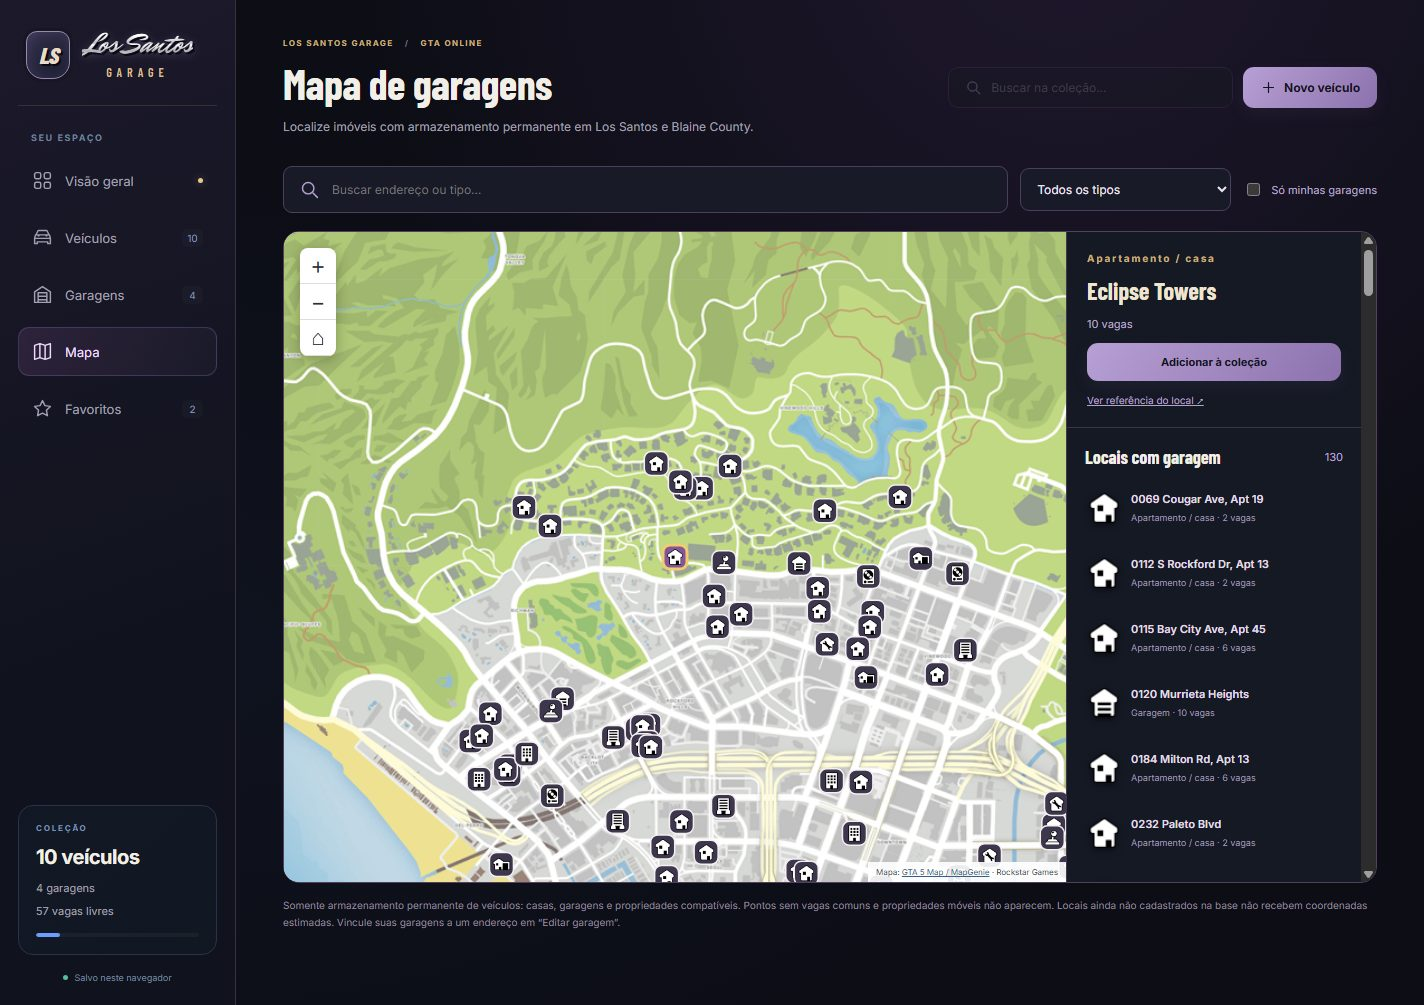
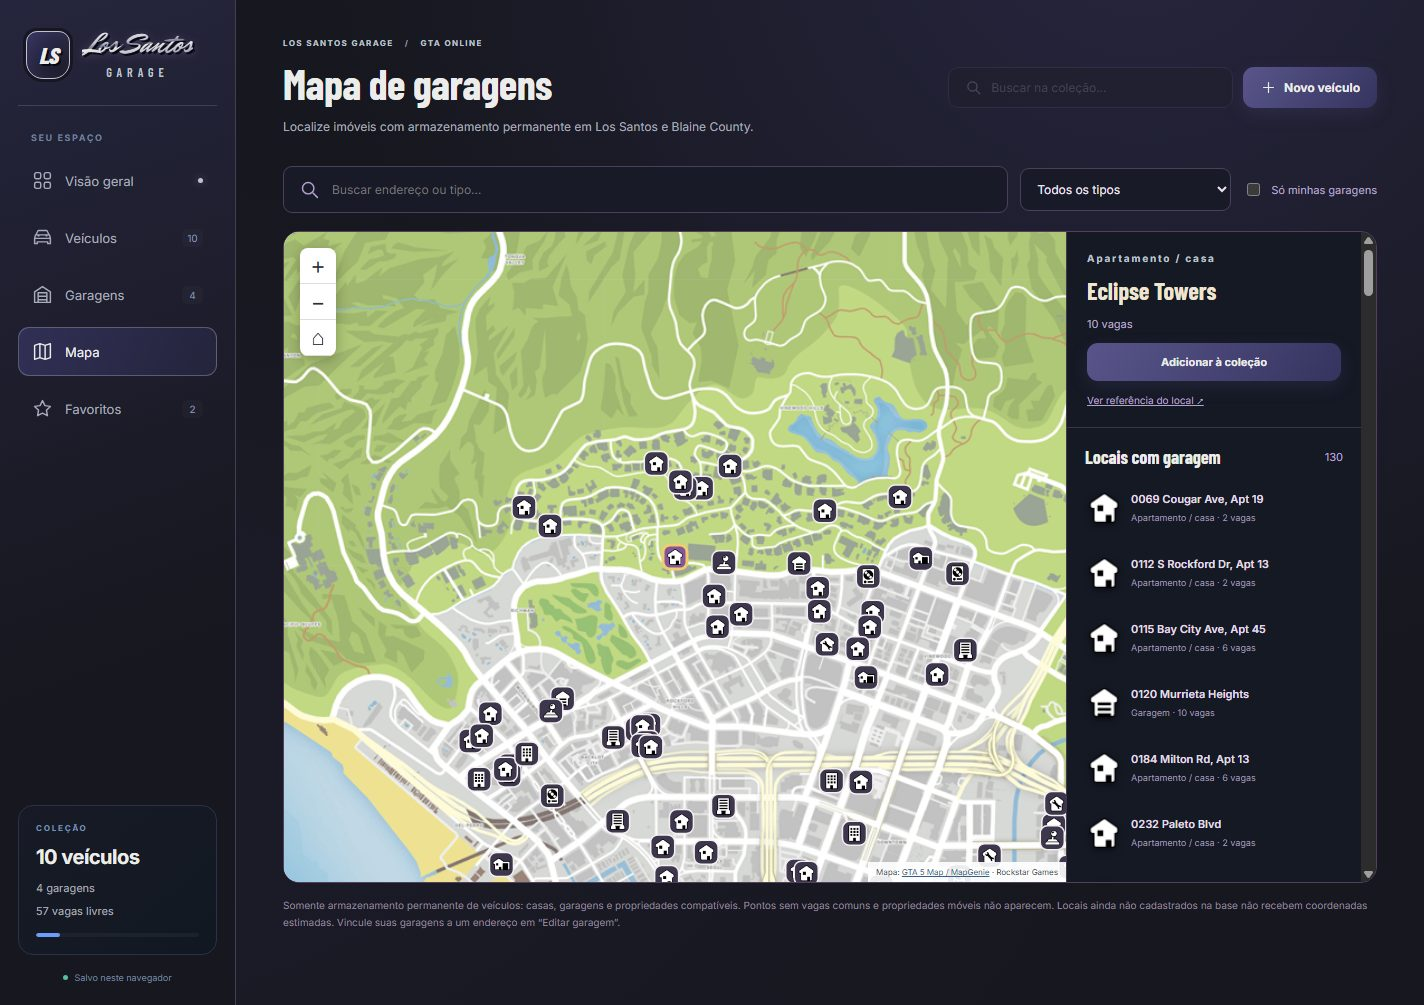
Aplica identidade indigo grafite e prata cromado

diff --git a/los-santos.css b/los-santos.css
@@ -1,66 +1,73 @@
-:root { --accent: #b494e2; --accent-2: #d6b46d; --bg: #0b0b13; --surface: #171621; --surface-2: #201d2d; --line: #343043; --muted: #a3a0b2; --text: #f2efe8; }
-body { background: radial-gradient(ellipse at 75% -10%, #36244977, transparent 48%), radial-gradient(ellipse at 10% 65%, #17243b44, transparent 55%), #0c0d15; }
+:root { --indigo: #35345f; --graphite: #17171f; --silver: #bfc3ce; --ice: #ecedeb; --violet: #59558b; --accent: #bfc3ce; --accent-2: #59558b; --bg: #17171f; --surface: #1e1e29; --surface-2: #29293a; --line: #414155; --muted: #a8acba; --text: #ecedeb; --chrome: linear-gradient(175deg, #ffffff 0%, #bfc3ce 38%, #747b91 49%, #ecedeb 52%, #a6adbf 78%, #dfe2e8 100%); }
+body { background: radial-gradient(ellipse at 80% -10%, #35345f80, transparent 50%), radial-gradient(ellipse at 0 75%, #35345f30, transparent 55%), var(--graphite); }
 h1, h2, h3 { font-family: "Barlow Condensed", Inter, sans-serif; }
-.sidebar { background: linear-gradient(160deg, #1c192b, #10131d 65%); border-right-color: #393044; }
-.brand { gap: 12px; align-items: center; padding-bottom: 26px; border-bottom: 1px solid #bb9a6330; margin-bottom: 26px; }
-.brand-mark { width: 44px; height: 48px; background: linear-gradient(140deg, #34304b, #171b2d); border: 1px solid #9b86b4; box-shadow: 0 0 0 3px #171723, inset 0 0 14px #ccb0ff22; color: #e6dcc7; font-family: "Barlow Condensed", sans-serif; font-size: 23px; font-style: italic; text-shadow: 2px 2px #090912; border-radius: 11px 11px 17px 17px; }
+.sidebar { background: linear-gradient(160deg, #25253d, #17171f 65%); border-right-color: #414155; }
+.brand { gap: 12px; align-items: center; padding-bottom: 26px; border-bottom: 1px solid #bfc3ce30; margin-bottom: 26px; }
+.brand-mark { width: 44px; height: 48px; background: linear-gradient(140deg, #35345f, #17171f); border: 1px solid #bfc3ce; box-shadow: 0 0 0 3px #171723, inset 0 0 14px #59558b33; color: #ecedeb; font-family: "Barlow Condensed", sans-serif; font-size: 23px; font-style: italic; text-shadow: 2px 2px #090912; border-radius: 11px 11px 17px 17px; }
 .brand-name { display: grid; gap: 4px; min-width: 0; }
-.lsg-script { font-family: "Mr Dafoe", "Brush Script MT", Georgia, cursive; font-weight: 400; color: #ece9e3; background: linear-gradient(#fff 20%, #bcb9c5 45%, #fff 51%, #b1adb7 72%, #eee7d9 95%); -webkit-background-clip: text; background-clip: text; -webkit-text-fill-color: transparent; filter: drop-shadow(2px 2px 0 #090a13) drop-shadow(0 1px 4px #76668c55); }
+.lsg-script { font-family: "Mr Dafoe", "Brush Script MT", Georgia, cursive; font-weight: 400; color: #ece9e3; background: linear-gradient(#fff 20%, #bcb9c5 45%, #fff 51%, #b1adb7 72%, #bfc3ce 95%); -webkit-background-clip: text; background-clip: text; -webkit-text-fill-color: transparent; filter: drop-shadow(2px 2px 0 #090a13) drop-shadow(0 1px 4px #76668c55); }
 .brand-name .lsg-script { font-size: 29px; line-height: 1; white-space: nowrap; }
-.brand-name small { color: #d6be8e; font-family: "Barlow Condensed", sans-serif; font-size: 12px; letter-spacing: 5px; text-align: center; margin-top: 0; }
-.nav-item.active { color: #eedcff; border-color: #8d70b54d; background: linear-gradient(110deg, #50365c66, #26263755); }
-.nav-active-dot, .nav-item.active .nav-active-dot { background: #e7c88b; box-shadow: 0 0 8px #e7c88b66; }
-.primary-button { background: linear-gradient(125deg, #b7a0d5, #8c72ad); color: #151320; border-color: #c3abdf55; font-weight: 700; box-shadow: 0 6px 18px #9277ae15; }
-.primary-button:hover { background: linear-gradient(125deg, #c9b4e5, #ac8bce); color: #151320; }
-.secondary-button { background: #242332; border-color: #41384e; color: #eee8df; }
-.eyebrow, .page-breadcrumb { color: #c8af7e; }
-.page-breadcrumb > span { color: #7d6b8e; }
+.brand-name small { color: #bfc3ce; font-family: "Barlow Condensed", sans-serif; font-size: 12px; letter-spacing: 5px; text-align: center; margin-top: 0; }
+.brand-mark, .lsg-script, .lsg-wordmark > strong { background-image: var(--chrome); background-clip: text; -webkit-background-clip: text; -webkit-text-fill-color: transparent; }
+.brand-mark { background-color: var(--indigo); background-image: linear-gradient(135deg, #35345f, #17171f); background-clip: border-box; -webkit-background-clip: border-box; -webkit-text-fill-color: var(--ice); color: var(--ice); }
+.nav-item.active { color: #ecedeb; border-color: #bfc3ce55; background: linear-gradient(110deg, #35345fcc, #35345f55); }
+.nav-active-dot, .nav-item.active .nav-active-dot { background: #bfc3ce; box-shadow: 0 0 8px #bfc3ce66; }
+.primary-button { background: linear-gradient(125deg, #59558b, #35345f); color: #ecedeb; border-color: #bfc3ce55; font-weight: 700; box-shadow: 0 6px 18px #59558b33; }
+.primary-button:hover { background: linear-gradient(125deg, #6c689f, #454476); color: #ecedeb; }
+.primary-button:focus-visible, .secondary-button:focus-visible, .text-button:focus-visible, .nav-item:focus-visible { outline: 2px solid var(--silver); outline-offset: 3px; }
+.text-button { color: var(--silver); }
+.stat-icon.blue { color: var(--silver); background: #35345f80; border-color: #bfc3ce40; }
+.stat-icon.violet { color: #d0cee5; background: #59558b40; border-color: #59558b; }
+.stat-icon.cyan { color: var(--ice); background: #bfc3ce15; border-color: #bfc3ce40; }
+.secondary-button { background: #29293a; border-color: #414155; color: #ecedeb; }
+.eyebrow, .page-breadcrumb { color: #bfc3ce; }
+.page-breadcrumb > span { color: #9398b0; }
 .topbar h1 { font-size: 42px; letter-spacing: -.4px; }
-.search, #categoryFilter { background: #191923; border-color: #3d3749; }
-.search input { color: #f0ece5; }
-.search:focus-within { border-color: #b9a0d3; }
-.lsg-brand-banner { position: relative; isolation: isolate; display: flex; align-items: center; justify-content: space-between; gap: 32px; overflow: hidden; min-height: 175px; padding: 28px 42px; margin-bottom: 26px; background: radial-gradient(ellipse at 25% 50%, #5d44736b, transparent 65%), linear-gradient(105deg, #222033, #171a27 65%, #252337); border: 1px solid #5b4960; border-radius: 16px; box-shadow: inset 0 0 0 5px #13131e88; }
-.lsg-brand-banner::before { content: ""; position: absolute; inset: 8px; z-index: -1; border: 1px solid #cfb37a38; border-radius: 10px; background: repeating-linear-gradient(120deg, #ffffff02 0 2px, transparent 2px 13px); }
+.search, #categoryFilter { background: #1e1e29; border-color: #414155; }
+.search input { color: #ecedeb; }
+.search:focus-within { border-color: #bfc3ce; }
+.lsg-brand-banner { position: relative; isolation: isolate; display: flex; align-items: center; justify-content: space-between; gap: 32px; overflow: hidden; min-height: 175px; padding: 28px 42px; margin-bottom: 26px; background: radial-gradient(ellipse at 25% 50%, #59558b55, transparent 65%), linear-gradient(105deg, #35345f, #17171f 65%, #35345f); border: 1px solid #747b91; border-radius: 16px; box-shadow: inset 0 0 0 5px #13131e88; }
+.lsg-brand-banner::before { content: ""; position: absolute; inset: 8px; z-index: -1; border: 1px solid #bfc3ce38; border-radius: 10px; background: repeating-linear-gradient(120deg, #ffffff02 0 2px, transparent 2px 13px); }
 .lsg-wordmark { display: grid; justify-items: center; min-width: 0; transform: rotate(-3deg); }
 .lsg-wordmark .lsg-script { font-size: clamp(54px, 5.4vw, 87px); line-height: 1.1; white-space: nowrap; }
-.lsg-wordmark > strong { padding: 1px 22px; margin-top: 0; color: #e1d5bd; border-block: 1px solid #b59c6877; font-family: "Barlow Condensed", sans-serif; font-size: 18px; letter-spacing: 8px; text-indent: 8px; }
-.lsg-brand-caption { border-left: 1px solid #a88f6055; padding-left: 32px; min-width: 0; }
-.lsg-brand-caption > span { display: block; color: #c9ad7d; font-size: 9px; letter-spacing: 2px; }
-.lsg-brand-caption h2 { margin: 10px 0; font-size: 29px; font-weight: 600; line-height: 1.05; color: #eee7da; }
-.lsg-brand-caption small { color: #a49caf; font-size: 10px; }
-.lsg-banner-stripe { position: absolute; width: 6px; top: 15px; bottom: 15px; right: 0; background: #d9bf89; box-shadow: -5px 0 #877099; }
+.lsg-wordmark > strong { padding: 1px 22px; margin-top: 0; color: #bfc3ce; border-block: 1px solid #bfc3ce77; font-family: "Barlow Condensed", sans-serif; font-size: 18px; letter-spacing: 8px; text-indent: 8px; }
+.lsg-brand-caption { border-left: 1px solid #bfc3ce55; padding-left: 32px; min-width: 0; }
+.lsg-brand-caption > span { display: block; color: #bfc3ce; font-size: 9px; letter-spacing: 2px; }
+.lsg-brand-caption h2 { margin: 10px 0; font-size: 29px; font-weight: 600; line-height: 1.05; color: #ecedeb; }
+.lsg-brand-caption small { color: #a8acba; font-size: 10px; }
+.lsg-banner-stripe { position: absolute; width: 6px; top: 15px; bottom: 15px; right: 0; background: #bfc3ce; box-shadow: -5px 0 #59558b; }
 #lsgBrandBanner[hidden] { display: none; }
-.stat-card { border-color: #3a354a; background: linear-gradient(125deg, #242332, #171b26); }
-.stat-card.collection-value-card { background: linear-gradient(125deg, #343127, #201f26); border-color: #a3854d66; }
-.stat-card.collection-value-card strong { color: #e9d7af; }
-.stat-icon.green { color: #ead09b; background: #c5a77522; }
-.garage-card { background: linear-gradient(135deg, #242330, #151922); border-color: #3d384c; }
+.stat-card { border-color: #414155; background: linear-gradient(125deg, #29293a, #1e1e29); }
+.stat-card.collection-value-card { background: linear-gradient(125deg, #35345f, #20202c); border-color: #bfc3ce66; }
+.stat-card.collection-value-card strong { color: #ecedeb; }
+.stat-icon.green { color: #bfc3ce; background: #bfc3ce22; }
+.garage-card { background: linear-gradient(135deg, #29293a, #1b1b25); border-color: #414155; }
 .garage-card h3 { margin-top: 16px; font-size: 22px; }
 .garage-card-cover { position: relative; display: block; height: 112px; overflow: hidden; border-radius: 8px; background: #222838; margin-bottom: 15px; }
 .garage-card-cover::after { content: ""; position: absolute; inset: 0; background: linear-gradient(transparent 30%, #10101bd9); }
 .garage-card-cover > img { display: block; width: 100%; height: 100%; object-fit: cover; }
 .garage-card-cover > .garage-cover-placeholder { position: static; display: grid; place-items: center; height: 100%; background: linear-gradient(135deg, #252c41, #141a29); }
 .garage-cover-placeholder :is(.ui-icon, img) { width: 44px; height: 44px; color: #b8bed0; }
-.garage-card-cover > span { position: absolute; bottom: 10px; left: 12px; right: 12px; z-index: 1; color: #eee2ce; font-size: 10px; letter-spacing: .3px; text-align: left; }
-.garage-card-value strong { color: #e4cfa8; }
-.garage-tag { color: #e4d1f4; background: #9e7cb51f; border-color: #a789c244; }
-.progress > span { background: var(--card-color, #b494e2); }
-.garage-valuation { background: linear-gradient(110deg, #302b29, #191b26); border-color: #c6a66555; }
-.garage-valuation strong { color: #e9d6ad; }
-.garage-valuation p, .garage-valuation #garageValueCoverage { color: #b6aa9a; }
-.vehicle-card { border-color: #393446; background: linear-gradient(140deg, #22212e, #141924); }
-.favorite-button.on { color: #e9c778; background: #352c1b; }
-dialog, #garageDialog, #vehicleDialog { background: linear-gradient(140deg, #252031, #131720 65%); border-color: #58465f; }
+.garage-card-cover > span { position: absolute; bottom: 10px; left: 12px; right: 12px; z-index: 1; color: #ecedeb; font-size: 10px; letter-spacing: .3px; text-align: left; }
+.garage-card-value strong { color: #ecedeb; }
+.garage-tag { color: #ecedeb; background: #59558b33; border-color: #bfc3ce44; }
+.progress > span { background: var(--card-color, #bfc3ce); }
+.garage-valuation { background: linear-gradient(110deg, #35345f, #191b26); border-color: #bfc3ce55; }
+.garage-valuation strong { color: #ecedeb; }
+.garage-valuation p, .garage-valuation #garageValueCoverage { color: #a8acba; }
+.vehicle-card { border-color: #414155; background: linear-gradient(140deg, #29293a, #17171f); }
+.favorite-button.on { color: #ecedeb; background: #35345f; }
+dialog, #garageDialog, #vehicleDialog { background: linear-gradient(140deg, #29293a, #17171f 65%); border-color: #59558b; }
 .dialog-heading h2 { font-size: 34px; }
-.dialog-form input:focus, .dialog-form select:focus { border-color: #b494e2; }
-.property-choice.selected { border-color: #b494e2; background: #a587c51b; box-shadow: 0 0 0 1px #a88ccc22; }
-.property-check { color: #dbc2f5; }
-.capacity-choice.selected { background: #9d81bd33; border-color: #b494e2; color: #f0dcff; }
-.property-preview { background: linear-gradient(120deg, #33283c, #1b202d); border-color: #675170; }
-.garage-interior-preview { position: relative; height: 135px; margin-top: 16px; overflow: hidden; border: 1px solid var(--interior-accent, #9582a9); border-radius: 8px; background: #252337; }
+.dialog-form input:focus, .dialog-form select:focus { border-color: #bfc3ce; }
+.property-choice.selected { border-color: #bfc3ce; background: #35345f80; box-shadow: 0 0 0 1px #59558b33; }
+.property-check { color: #bfc3ce; }
+.capacity-choice.selected { background: #35345faa; border-color: #bfc3ce; color: #ecedeb; }
+.property-preview { background: linear-gradient(120deg, #35345f, #1e1e29); border-color: #59558b; }
+.garage-interior-preview { position: relative; height: 135px; margin-top: 16px; overflow: hidden; border: 1px solid var(--interior-accent, #9582a9); border-radius: 8px; background: #35345f; }
 .garage-interior-preview img { width: 100%; height: 100%; display: block; object-fit: cover; }
 .garage-interior-preview::after { content: ""; position: absolute; inset: 0; background: linear-gradient(transparent 30%, #10101bd9); }
-.garage-interior-preview > span { position: absolute; bottom: 12px; left: 14px; z-index: 1; font-size: 12px; font-weight: 600; color: #f5ead6; }
+.garage-interior-preview > span { position: absolute; bottom: 12px; left: 14px; z-index: 1; font-size: 12px; font-weight: 600; color: #ecedeb; }
 .interior-picker-intro { margin: 0 0 14px; color: #aea1ba; font-size: 11px; line-height: 1.7; }
 .interior-picker { display: grid; grid-template-columns: repeat(3, minmax(0,1fr)); gap: 10px; max-height: 450px; padding: 4px; overflow-y: auto; scrollbar-width: thin; scrollbar-color: #9375a9 #1b1928; }
 .interior-choice { position: relative; display: flex; flex-direction: column; padding: 0; min-width: 0; overflow: hidden; border: 1px solid #52405e; border-radius: 8px; background: #201e2d; color: #f3e9df; text-align: left; cursor: pointer; }
@@ -69,8 +76,8 @@ dialog, #garageDialog, #vehicleDialog { background: linear-gradient(140deg, #252
 .interior-choice strong { font-size: 11px; }
 .interior-choice small { font-size: 9px; line-height: 1.6; font-weight: 400; color: #afa4ba; }
 .interior-check { position: absolute; top: 6px; right: 6px; width: 22px; height: 22px; display: grid; place-items: center; border-radius: 50%; background: #10121b99; color: transparent; font-size: 12px; }
-.interior-choice.selected { border-color: #d4b67b; box-shadow: 0 0 0 2px #d4b67b44; background: #342a36; }
-.interior-choice.selected .interior-check { background: #d4b67b; color: #191725; }
+.interior-choice.selected { border-color: #bfc3ce; box-shadow: 0 0 0 2px #bfc3ce44; background: #35345f; }
+.interior-choice.selected .interior-check { background: #bfc3ce; color: #191725; }
 .interior-source { display: inline-block; margin-top: 14px; color: #c1a1df; font-size: 10px; }
 #garageInteriorField[hidden] { display: none; }
 .garage-room { border-color: var(--interior-accent, #9d83b4); }
@@ -81,11 +88,11 @@ dialog, #garageDialog, #vehicleDialog { background: linear-gradient(140deg, #252
 .garage-interior-banner > img { width: 100%; height: 100%; display: block; object-fit: cover; object-position: center 48%; }
 .garage-interior-banner::after { content: ""; position: absolute; z-index: 0; inset: 0; background: linear-gradient(0deg, #0c0e17ee 0, #0c0e1788 35%, #0c0e1708 80%); }
 .garage-interior-caption { position: absolute; z-index: 1; left: 24px; bottom: 20px; right: 20px; display: grid; justify-items: start; gap: 7px; }
-.garage-interior-caption > span { color: #d7c4a1; letter-spacing: 2px; font-size: 8px; }
-.garage-interior-caption strong { color: #f5efdf; font: 600 25px "Barlow Condensed", sans-serif; text-shadow: 0 2px 4px #000; }
+.garage-interior-caption > span { color: #bfc3ce; letter-spacing: 2px; font-size: 8px; }
+.garage-interior-caption strong { color: #ecedeb; font: 600 25px "Barlow Condensed", sans-serif; text-shadow: 0 2px 4px #000; }
 .garage-interior-caption a { color: #c0b7c8; font-size: 9px; }
-.garage-decoration-switcher { position: absolute; z-index: 2; top: 14px; right: 14px; display: grid; gap: 5px; max-width: calc(100% - 28px); padding: 9px 12px; background: #12141de6; border: 1px solid #d5bb8c44; border-radius: 8px; color: #c5af8e; font-size: 9px; }
-.garage-decoration-switcher select { width: 170px; max-width: 100%; padding: 6px 4px; color: #f2e9db; background: #222130; border: 1px solid #796484; border-radius: 4px; font: inherit; font-size: 11px; }
+.garage-decoration-switcher { position: absolute; z-index: 2; top: 14px; right: 14px; display: grid; gap: 5px; max-width: calc(100% - 28px); padding: 9px 12px; background: #12141de6; border: 1px solid #bfc3ce44; border-radius: 8px; color: #bfc3ce; font-size: 9px; }
+.garage-decoration-switcher select { width: 170px; max-width: 100%; padding: 6px 4px; color: #ecedeb; background: #222130; border: 1px solid #796484; border-radius: 4px; font: inherit; font-size: 11px; }
 .garage-map-area { background: var(--interior-floor, #aab1b8); }
 .garage-floor { background: linear-gradient(90deg, #0002, transparent 8%, transparent 92%, #0002), repeating-linear-gradient(0deg, transparent 0 81px, #20252c11 82px 83px), repeating-linear-gradient(90deg, transparent 0 112px, #ffffff09 113px 226px), var(--interior-floor); }
 .garage-floor::before { content: ""; position: absolute; left: 0; right: 0; top: 0; height: 7px; background: var(--interior-accent); box-shadow: 0 4px 17px color-mix(in srgb, var(--interior-accent), transparent 40%); }
@@ -108,4 +115,4 @@ dialog, #garageDialog, #vehicleDialog { background: linear-gradient(140deg, #252
 .garage-room[data-floor-pattern=clean] .garage-floor { background: repeating-linear-gradient(0deg, transparent 0 81px, #fff3 82px 83px), repeating-linear-gradient(90deg, transparent 0 113px, #fff2 114px 115px), var(--interior-floor); }
 @media (max-width: 1050px) { .brand { padding-inline: 4px; } .brand-mark { flex-shrink: 0; width: 44px; } }
 @media (max-width: 760px) { .lsg-brand-banner { min-height: 150px; padding: 24px; gap: 20px; } .lsg-wordmark .lsg-script { font-size: 57px; } .lsg-wordmark > strong { font-size: 14px; } .lsg-brand-caption { padding-left: 18px; } .lsg-brand-caption h2 { font-size: 25px; } .lsg-brand-caption > span { font-size: 8px; letter-spacing: 1px; } .topbar h1 { font-size: 38px; } .garage-interior-banner { height: 185px; } }
-@media (max-width: 560px) { .lsg-brand-banner { flex-direction: column; align-items: center; gap: 18px; padding: 28px 20px; } .lsg-wordmark .lsg-script { font-size: 72px; } .lsg-brand-caption { border-left: 0; border-top: 1px solid #c5a66c55; padding: 14px 0 0; width: 100%; text-align: center; } .lsg-brand-caption h2 { font-size: 27px; } .lsg-brand-caption h2 br { display: none; } .lsg-brand-caption small { font-size: 9px; } .interior-picker { grid-template-columns: repeat(2, minmax(0,1fr)); max-height: 430px; } .garage-interior-caption { left: 16px; bottom: 16px; } .garage-interior-caption strong { font-size: 22px; } .garage-interior-banner { height: 210px; } }
+@media (max-width: 560px) { .lsg-brand-banner { flex-direction: column; align-items: center; gap: 18px; padding: 28px 20px; } .lsg-wordmark .lsg-script { font-size: 72px; } .lsg-brand-caption { border-left: 0; border-top: 1px solid #bfc3ce55; padding: 14px 0 0; width: 100%; text-align: center; } .lsg-brand-caption h2 { font-size: 27px; } .lsg-brand-caption h2 br { display: none; } .lsg-brand-caption small { font-size: 9px; } .interior-picker { grid-template-columns: repeat(2, minmax(0,1fr)); max-height: 430px; } .garage-interior-caption { left: 16px; bottom: 16px; } .garage-interior-caption strong { font-size: 22px; } .garage-interior-banner { height: 210px; } }

diff --git a/index.html b/index.html
@@ -3,9 +3,9 @@
 <head>
   <meta charset="UTF-8">
   <meta name="viewport" content="width=device-width, initial-scale=1.0">
-  <meta name="theme-color" content="#171424">
+  <meta name="theme-color" content="#17171F">
   <title>Los Santos Garage</title>
-  <link rel="icon" type="image/svg+xml" sizes="any" href="favicon.svg?v=1">
+  <link rel="icon" type="image/svg+xml" sizes="any" href="favicon.svg?v=2">
   <link rel="preconnect" href="https://fonts.googleapis.com">
   <link rel="preconnect" href="https://fonts.gstatic.com" crossorigin>
   <link href="https://fonts.googleapis.com/css2?family=Inter:wght@400;500;600;700;800&family=Barlow+Condensed:wght@500;600;700;800&family=Mr+Dafoe&display=swap" rel="stylesheet">

diff --git a/README.md b/README.md
@@ -12,12 +12,16 @@ de cada garagem e escolha propriedades pelo mapa de Los Santos.
 > O primeiro acesso ao site começa vazio, sem carros ou garagens cadastrados.
 
 Identidade visual inspirada nas oficinas de Los Santos, com letreiro cromado,
-tons de roxo e dourado e referências dos interiores reais do jogo por tipo de
+azul índigo, grafite e prata cromado e referências dos interiores reais do jogo por tipo de
 propriedade. Na **Oficina de Tuning**, escolha entre os nove estilos Undressed,
 Flawless, Polished, Concrete Chic, Nostalgia Trip, Route 68, Super Chibi,
 Wildstyle e Race and Chase. A decoração é salva por garagem e altera a foto
 de referência, as cores e o piso do mapa. Pode ser escolhida no cadastro/edição
 ou diretamente na vista de vagas. Referências em `assets/interior-images.js`.
+
+A paleta usa grafite `#17171F`, índigo `#35345F`, prata `#BFC3CE`, branco gelo
+`#ECEDEB` e roxo azulado `#59558B`. Letras com degradê metálico e destaques
+discretos remetem às oficinas californianas da Los Santos Customs.
 
 Abra `index.html` no navegador ou acesse o site publicado. Os cadastros ficam no
 `localStorage` do navegador. O arquivo local e o site possuem armazenamento separado.
